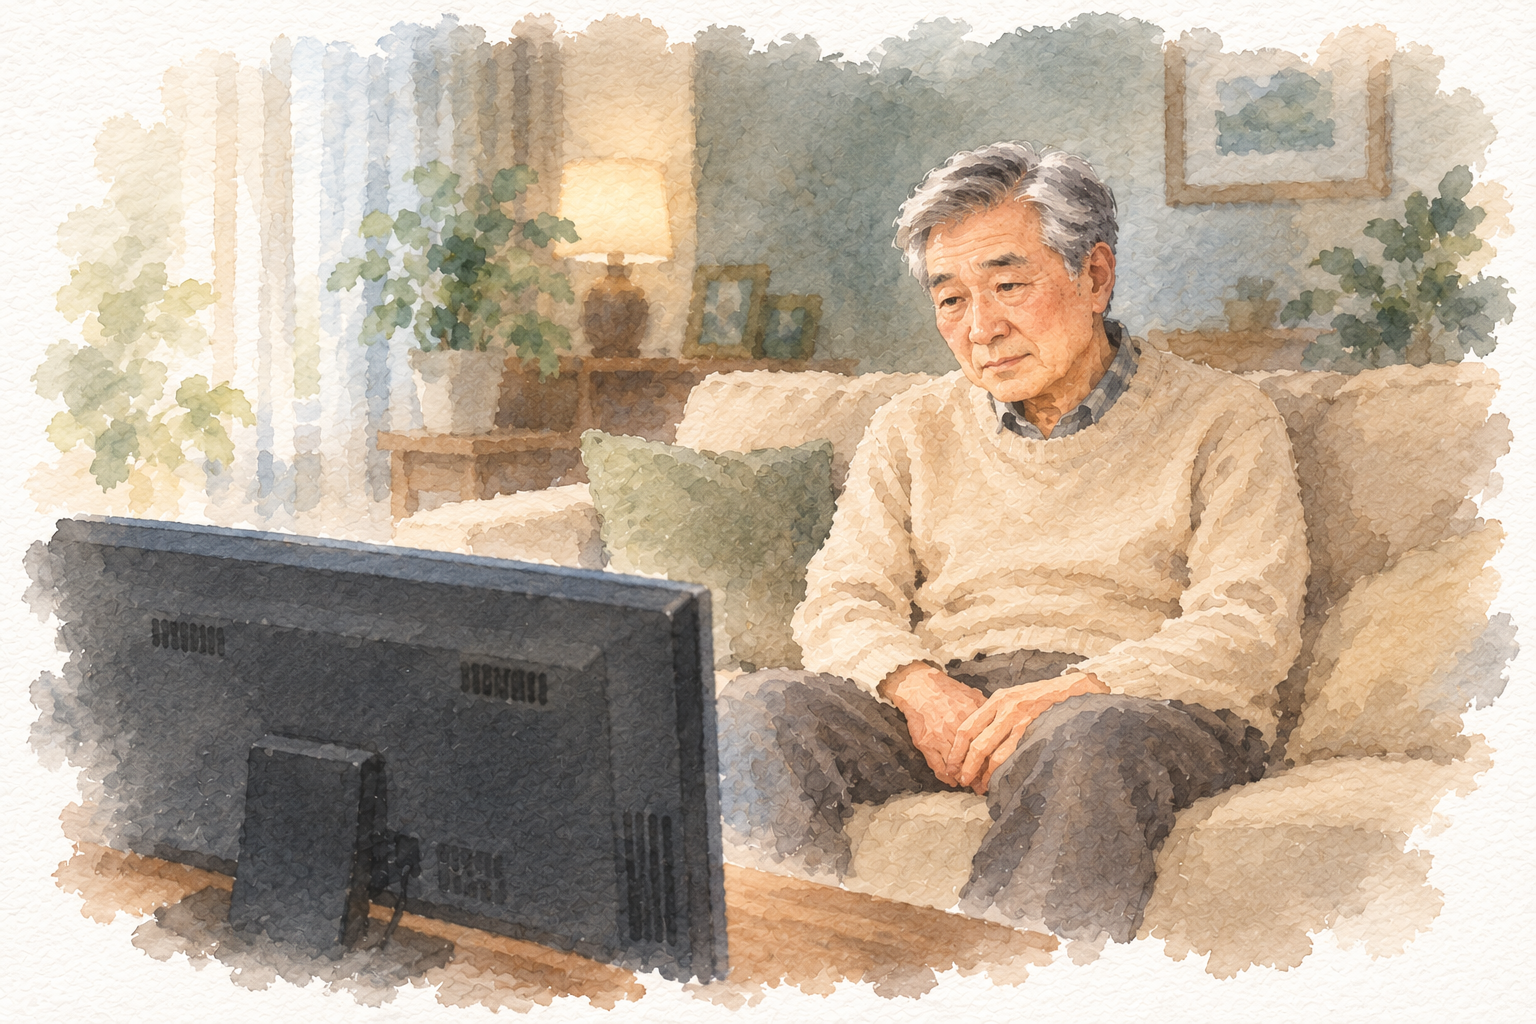
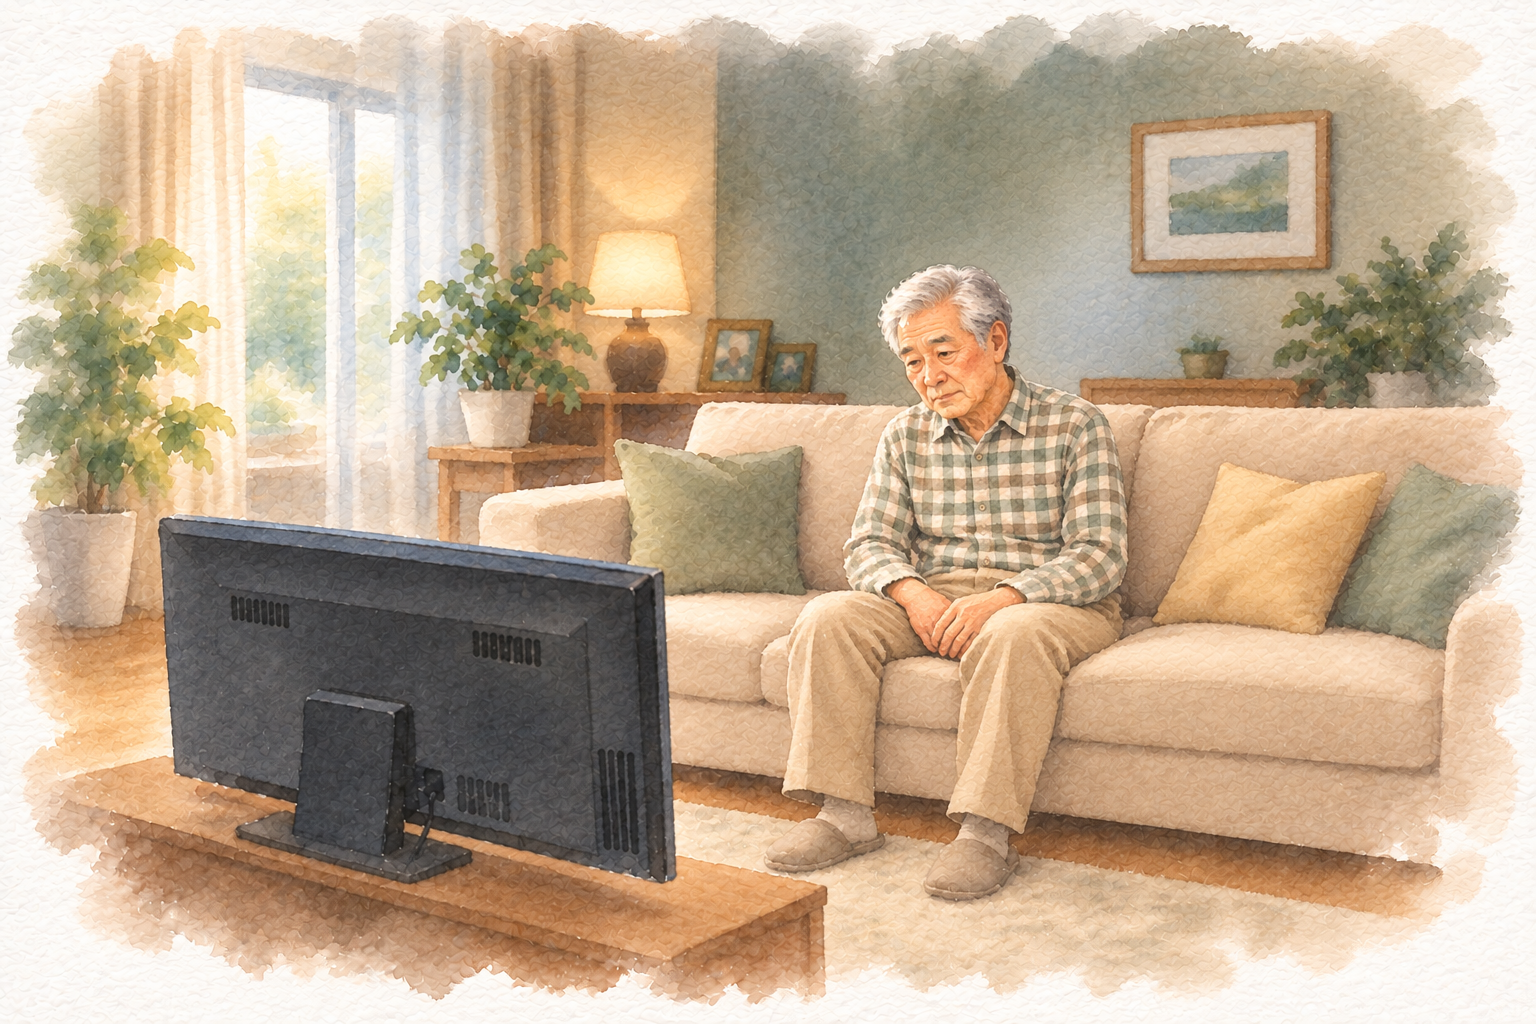
Match grandfather across watercolor scenes and widen the TV illustration

diff --git a/maldongmu-site/styles.css b/maldongmu-site/styles.css
@@ -133,20 +133,18 @@ body{--friend-surface:#e2cca4}body[data-character="boksil"]{--friend-surface:#e9
   align-self: center;
   justify-self: center;
   width: 100%;
-  max-width: 540px;
+  max-width: 760px;
   margin: 0;
   mix-blend-mode: multiply;
 }
 .intro-scene > img {
+  --intro-fade-x: linear-gradient(to right, transparent, #0000001f 5%, #0000006b 10%, #000000c7 17%, #000 24%, #000 78%, #0000008c 87%, #0000001f 96%, transparent);
+  --intro-fade-y: linear-gradient(to bottom, transparent, #00000047 5%, #000000bf 10%, #000 16%, #000 80%, #00000073 90%, #00000024 96%, transparent);
   width: 100%;
   height: auto;
   aspect-ratio: 3 / 2;
-  -webkit-mask-image:
-    linear-gradient(to right, transparent, #000 7%, #000 93%, transparent),
-    linear-gradient(to bottom, transparent, #000 7%, #000 88%, transparent);
-  mask-image:
-    linear-gradient(to right, transparent, #000 7%, #000 93%, transparent),
-    linear-gradient(to bottom, transparent, #000 7%, #000 88%, transparent);
+  -webkit-mask-image: var(--intro-fade-x), var(--intro-fade-y);
+  mask-image: var(--intro-fade-x), var(--intro-fade-y);
   -webkit-mask-composite: source-in;
   mask-composite: intersect;
 }
@@ -166,6 +164,13 @@ body{--friend-surface:#e2cca4}body[data-character="boksil"]{--friend-surface:#e9
   font-size: 15px;
   line-height: 1.75;
 }
+@media (min-width: 1200px) {
+  .intro > .wrap {
+    width: min(1440px, calc(100% - 72px));
+    grid-template-columns: minmax(0, 1.08fr) minmax(0, 1fr);
+    column-gap: clamp(32px, 3vw, 44px);
+  }
+}
 @media (max-width: 799px) {
   .intro { padding-block: 60px; }
   .intro > .wrap { grid-template-columns: minmax(0, 1fr); row-gap: 24px; }
@@ -173,7 +178,7 @@ body{--friend-surface:#e2cca4}body[data-character="boksil"]{--friend-surface:#e9
   .intro-grid > .intro-copy { grid-column: 1; display: block; }
   .intro .intro-copy h2 { font-size: clamp(28px, 7.6vw, 32px); margin-bottom: 16px; }
   .intro .intro-copy > p + p { margin-top: 12px; }
-  .intro-scene { grid-column: 1; grid-row: 3; }
+  .intro-scene { grid-column: 1; grid-row: 3; max-width: 680px; }
   .intro-grid > .thoughts { grid-column: 1; grid-row: 4; grid-template-columns: 1fr; }
 }
 .companions {

diff --git a/README.md b/README.md
@@ -6,6 +6,8 @@
 
 복순 할머니는 부드러운 전라도 말투, 덕수 할아버지는 경상도 말투를 사용합니다. 나머지 세 캐릭터의 대사는 유지합니다.
 
+두 수채화의 할아버지는 첫 화면의 인물과 체크셔츠·베이지색 면바지 차림을 기준으로 맞췄습니다. 혼자 TV를 보는 장면은 거실 배경과 표시 너비를 넓히고 가장자리를 부드럽게 처리했습니다. 편집 프롬프트는 `design/grandparents-consistent-outfit.txt`에 있습니다.
+
 로고는 안경과 미소를 담은 말풍선이며 상단·하단 로고와 브라우저 아이콘에 함께 사용합니다. 공감 문구와 인용문에는 칠곡군의 ‘칠곡할매 김영분체’를 섞었습니다. 글자 모양을 바꾸지 않은 WOFF2 파일을 로컬에서 불러오며 이용 조건과 공식 출처는 `maldongmu-site/assets/fonts/CHILGOK-LICENSE.txt`에 있습니다. 본문·메뉴·앱 예시에는 Pretendard를 유지합니다.
 
 중간의 ‘함께할 일상’에는 스크롤에 따라 음성 대화·캐릭터·이야기 선택·큰 글씨를 보여주는 휴대폰 미리보기가 있습니다. 선택한 캐릭터에 맞는 배경과 네 가지 자세도 이 화면에 반영됩니다. 스크롤과 01–04 버튼에 따라 듣기, 인사, 사과로 끝말잇기 제안, 편안하게 듣는 모습으로 전환됩니다. 이미지와 제작 프롬프트는 `maldongmu-site/assets/character-scenes/`와 `design/character-scenes.txt`에 있습니다. 소개용 화면이며, 페이지 마지막의 대화·음성 입력 체험 데모는 포함하지 않습니다.
